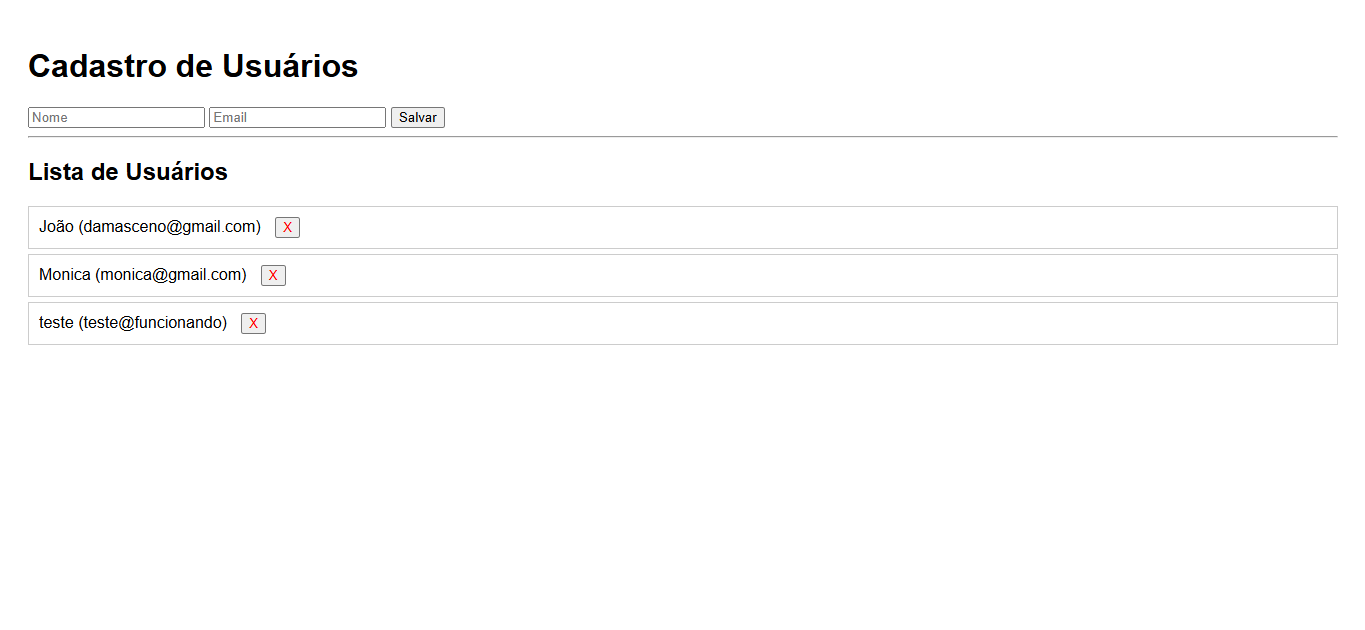
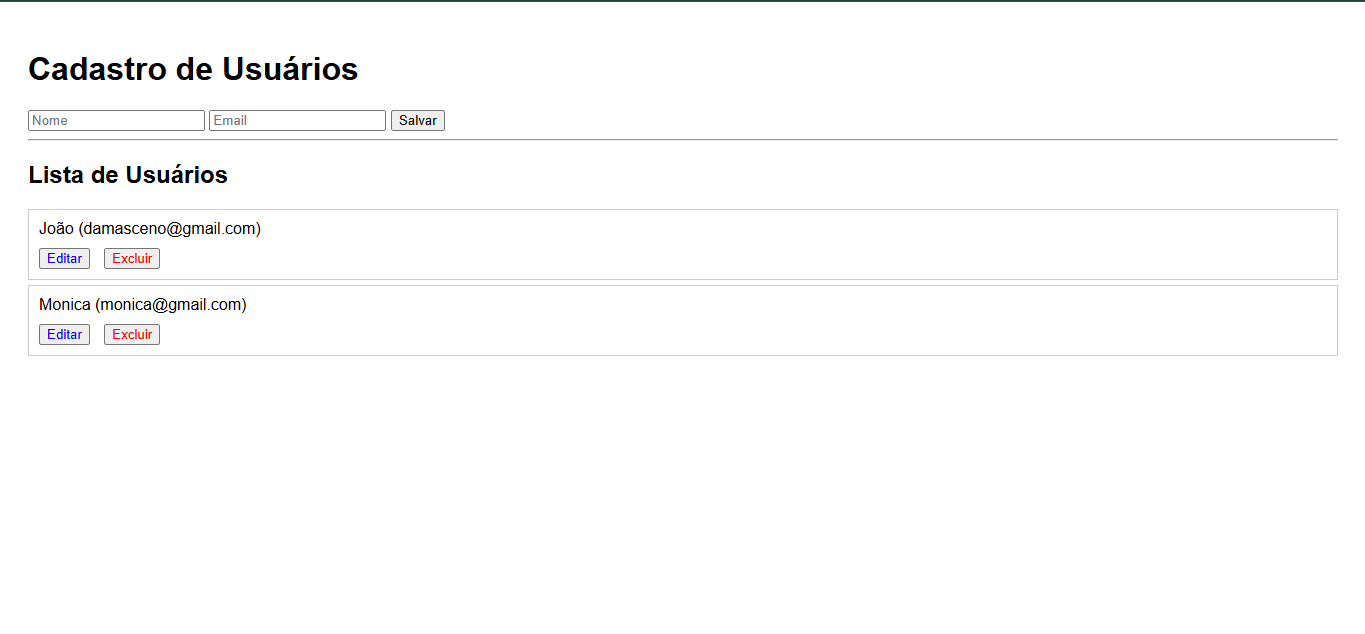
Commit final

Changed region(s): [[0.0, 0.0905, 0.9846, 0.573], [0.0, 0.0, 1.0, 0.0302]]

diff --git a/frontend/app.js b/frontend/app.js
@@ -1,6 +1,7 @@
 const API_URL = 'http://localhost:3000/usuarios';
+let idParaEditar = null; // guarga o ID se estiver editando
 
-// função de buscar dados (GET)
+// função de buscar dados (GET) e mostrar na tela
 async function carregarUsuarios() {
     const resposta = await fetch(API_URL);
     const usuarios = await resposta.json();
@@ -9,14 +10,21 @@ async function carregarUsuarios() {
     divLista.innerHTML = ''; 
 
     usuarios.forEach(user => {
+        // 1. PRIMEIRO cria o elemento
         const item = document.createElement('div');
         item.className = 'card';
         
+        // 2. DEPOIS define o que vai dentro (HTML com os dois botões)
+        // Note que passamos as aspas simples ' ' nos argumentos de texto
         item.innerHTML = `
             <span>${user.nome} (${user.email})</span>
-            <button onclick="deletarUsuario('${user._id}')" style="color:red; margin-left:10px;">X</button>
+            <div style="margin-top: 10px;">
+                <button onclick="preencherFormulario('${user._id}', '${user.nome}', '${user.email}')" style="color:blue; margin-right:10px;">Editar</button>
+                <button onclick="deletarUsuario('${user._id}')" style="color:red;">Excluir</button>
+            </div>
         `;
         
+        // 3. POR FIM adiciona na lista
         divLista.appendChild(item);
     });
 }
@@ -33,23 +41,41 @@ async function deletarUsuario(id) {
     }
 }
 
-// função de enviar dados (POST)
+// função de enviar dados (POST) ou atualizar (PUT)
 async function criarUsuario() {
     const nome = document.getElementById('nome').value;
     const email = document.getElementById('email').value;
 
-    await fetch(API_URL, {
-        method: 'POST',
-        headers: {
-            'Content-Type': 'application/json'
-        },
-        body: JSON.stringify({ nome, email })
-    });
+    if (idParaEditar === null) {
+        // MODO CRIAÇÃO (POST)
+        await fetch(API_URL, {
+            method: 'POST',
+            headers: { 'Content-Type': 'application/json' },
+            body: JSON.stringify({ nome, email })
+        });
+    } else {
+        // MODO EDIÇÃO (PUT)
+        await fetch(`${API_URL}/${idParaEditar}`, {
+            method: 'PUT',
+            headers: { 'Content-Type': 'application/json' },
+            body: JSON.stringify({ nome, email })
+        });
+        
+        idParaEditar = null; // voltar para modo criação
+        document.querySelector('button[onclick="criarUsuario()"]').innerText = "Salvar"; // voltar texto do botão
+    }
 
-    // limpar campos e recarregar a lista
+    // Limpar campos e recarregar
     document.getElementById('nome').value = '';
     document.getElementById('email').value = '';
     carregarUsuarios();
+}
+function preencherFormulario(id, nome, email) {
+    document.getElementById('nome').value = nome;
+    document.getElementById('email').value = email;
+    idParaEditar = id; // "Ligar" o modo edição
+
+    document.querySelector('button[onclick="criarUsuario()"]').innerText = "Atualizar";
 }
 
 // carregar a lista ao abrir a página

diff --git a/backend/server.js b/backend/server.js
@@ -21,6 +21,16 @@ const Usuario = mongoose.model('Usuario', UsuarioSchema);
 
 // API (endpoints)
 
+// rota para LISTAR usuários (GET)
+app.get('/usuarios', async (req, res) => {
+    try {
+        const usuarios = await Usuario.find();
+        res.json(usuarios);
+    } catch (error) {
+        res.status(500).json({ erro: error.message });
+    }
+});
+
 // rota para CRIAR um usuário (POST)
 app.post('/usuarios', async (req, res) => {
     try {
@@ -32,11 +42,21 @@ app.post('/usuarios', async (req, res) => {
     }
 });
 
-// rota para LISTAR usuários (GET)
-app.get('/usuarios', async (req, res) => {
+
+// rota para ATUALIZAR (PUT)
+app.put('/usuarios/:id', async (req, res) => {
     try {
-        const usuarios = await Usuario.find();
-        res.json(usuarios);
+        const { nome, email } = req.body;
+        
+        // findByIdAndUpdate(quem_atualizar, novos_dados, {new: true})
+        // O {new: true} serve para o Mongo devolver o usuário JÁ atualizado
+        const usuarioAtualizado = await Usuario.findByIdAndUpdate(
+            req.params.id,
+            { nome, email },
+            { new: true } 
+        );
+
+        res.json(usuarioAtualizado);
     } catch (error) {
         res.status(500).json({ erro: error.message });
     }

diff --git a/README.md b/README.md
@@ -1,5 +1,5 @@
 # P2 - Linguagem de Programação Java  
-Projeto simples para adicionar, listar e deletar usuários no MongoDB.  
+Projeto simples para adicionar, deletar, atualizar e listar usuários numa tabela no MongoDB.  
 Projeto fullstack usando:  
 - JavaScript;  
 - Node.js;  
@@ -29,14 +29,18 @@ Comando:
 ![img1](Artefatos/comando.png)
 Site:  
 ![img2](Artefatos/site.png)  
-Teste:  
-![img3](Artefatos/teste.png)  
-Teste do Delete:  
-![img4](Artefatos/testedelete.png)  
-MongoDB (antes do Delete):  
-![img5](Artefatos/mongodb.png)  
-MongoDB (depois do Delete):  
-![img5](Artefatos/mongodbdelete.png)  
-Conclusão:  
-![img7](Artefatos/conclusao.png)
+Teste (POST):  
+![img3](Artefatos/testepost.png)  
+MongoDB:  
+![img4](Artefatos/mongopost.png)  
+Teste 2 (DELETE):  
+![img5](Artefatos/testedelete.png)  
+MongoDB:  
+![img6](Artefatos/mongodelete.png)  
+Teste 3 (PUT):  
+![img7](Artefatos/testeput.png)  
+MongoDB:  
+![img8](Artefatos/mongoput.png)  
+Conclusão (GET):  
+![img9](Artefatos/conclusao.png)
 
